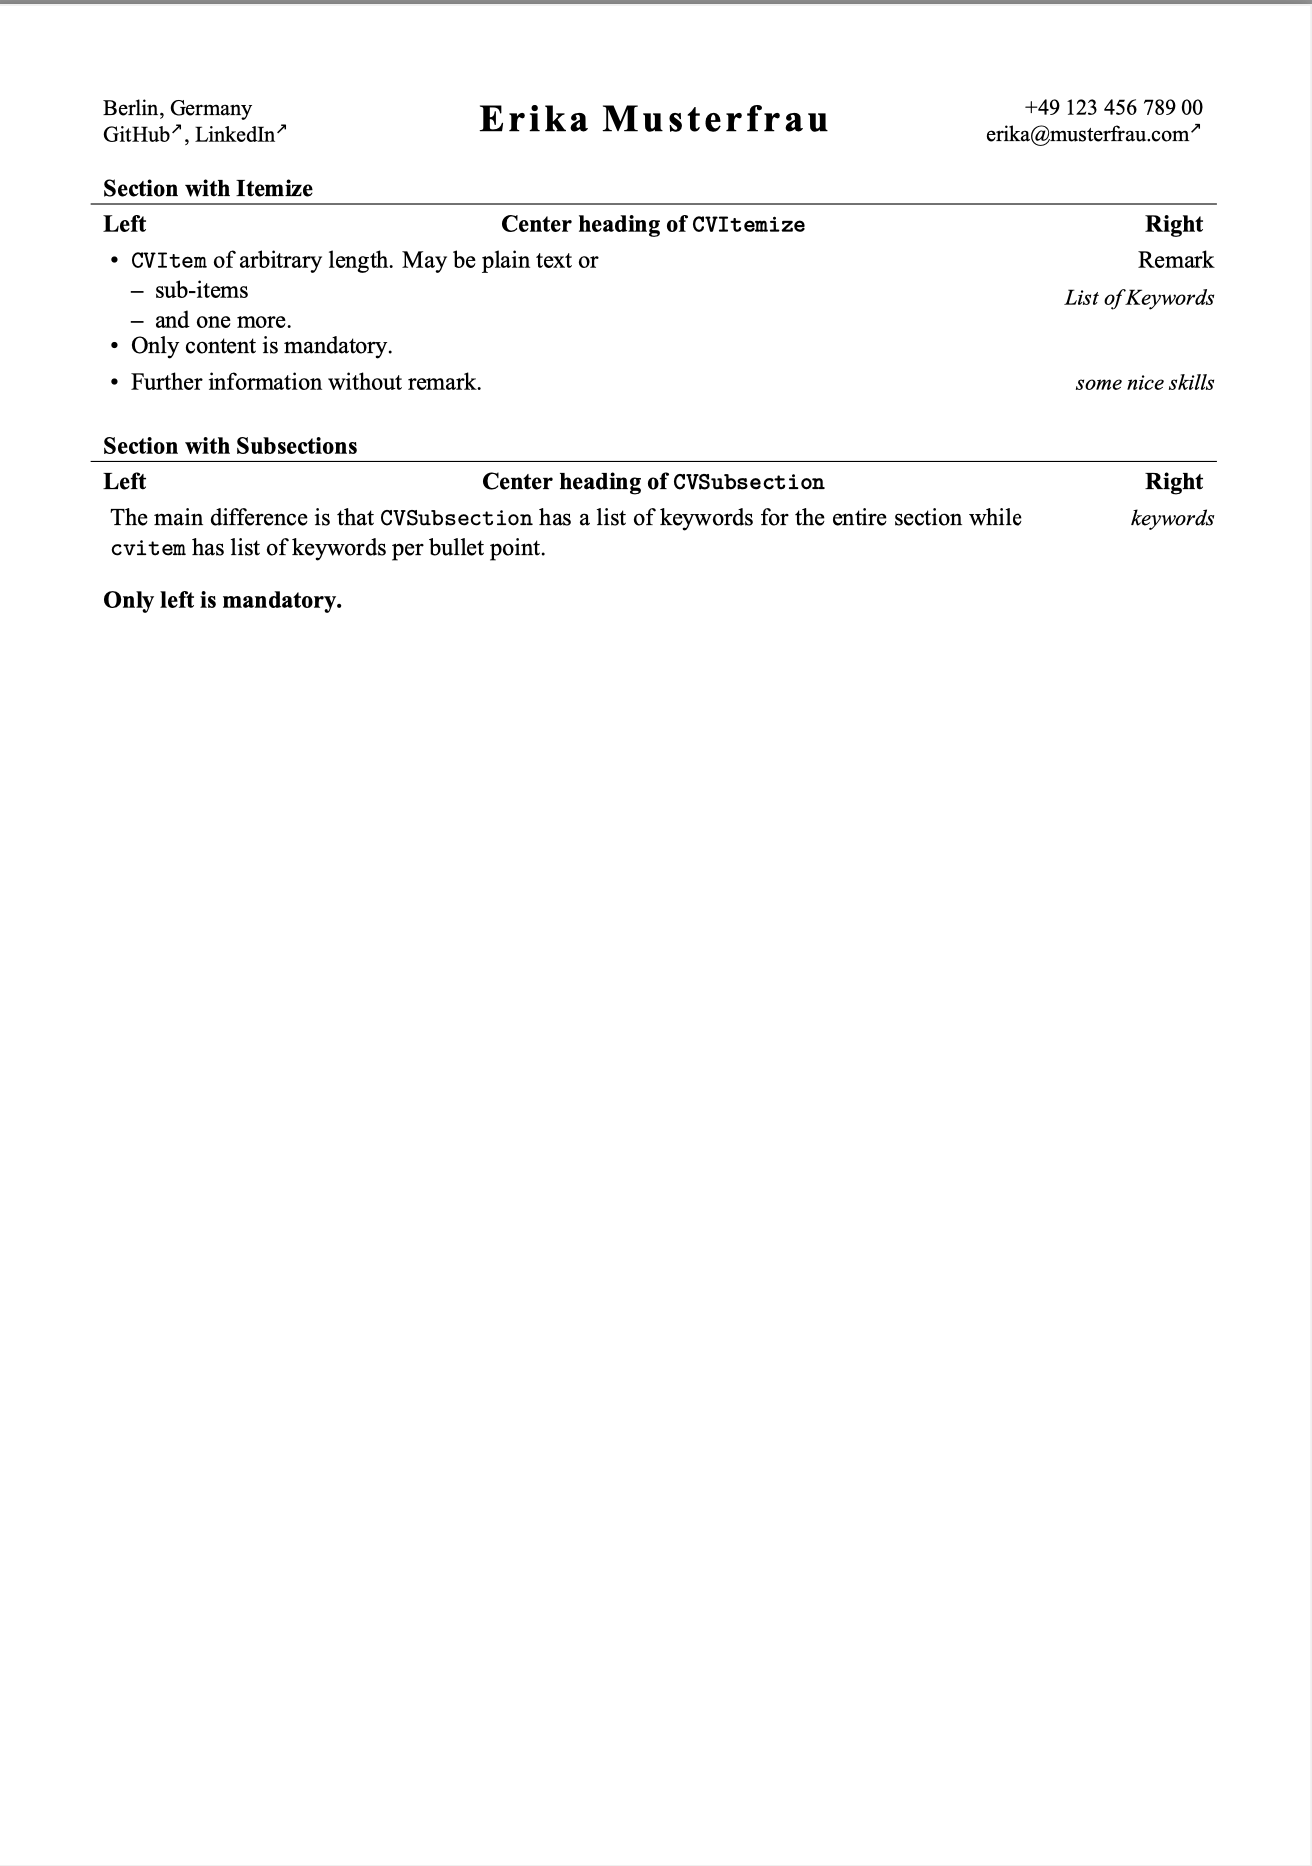
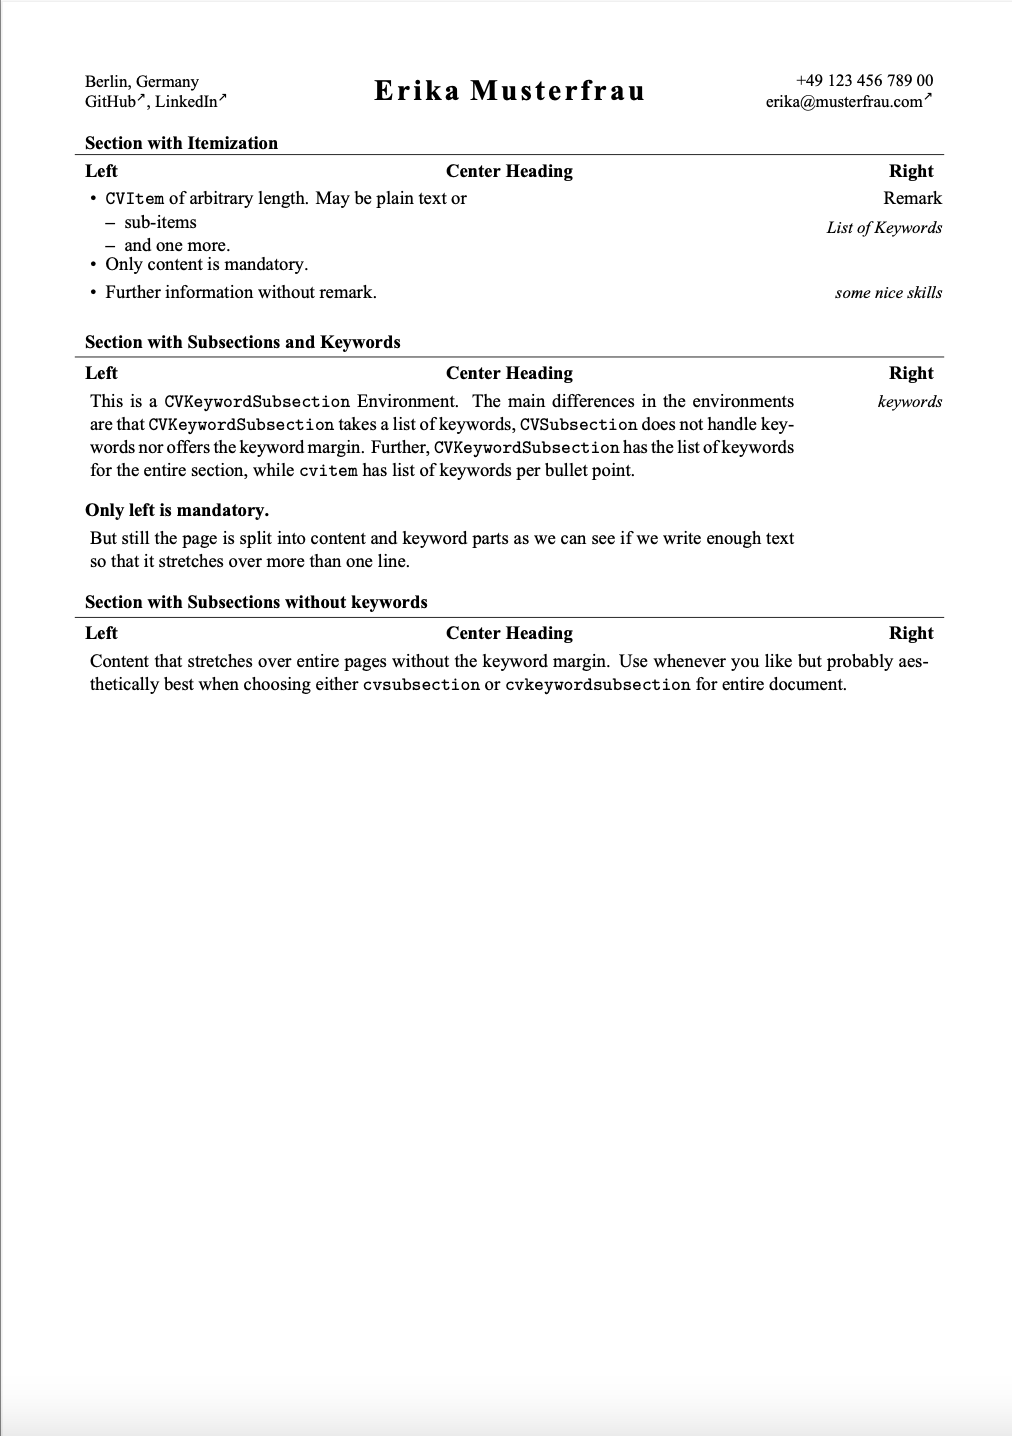
make compatible with original Template class: Add cvkeywordsubsection

diff --git a/Examples/CV_Template_Keywords.tex b/Examples/CV_Template_Keywords.tex
@@ -1,0 +1,100 @@
+%% The MIT License (MIT)
+%%
+%% Copyright (c) 2015 Daniil Belyakov
+%%
+%% Permission is hereby granted, free of charge, to any person obtaining a copy
+%% of this software and associated documentation files (the "Software"), to deal
+%% in the Software without restriction, including without limitation the rights
+%% to use, copy, modify, merge, publish, distribute, sublicense, and/or sell
+%% copies of the Software, and to permit persons to whom the Software is
+%% furnished to do so, subject to the following conditions:
+%%
+%% The above copyright notice and this permission notice shall be included in all
+%% copies or substantial portions of the Software.
+%%
+%% THE SOFTWARE IS PROVIDED "AS IS", WITHOUT WARRANTY OF ANY KIND, EXPRESS OR
+%% IMPLIED, INCLUDING BUT NOT LIMITED TO THE WARRANTIES OF MERCHANTABILITY,
+%% FITNESS FOR A PARTICULAR PURPOSE AND NONINFRINGEMENT. IN NO EVENT SHALL THE
+%% AUTHORS OR COPYRIGHT HOLDERS BE LIABLE FOR ANY CLAIM, DAMAGES OR OTHER
+%% LIABILITY, WHETHER IN AN ACTION OF CONTRACT, TORT OR OTHERWISE, ARISING FROM,
+%% OUT OF OR IN CONNECTION WITH THE SOFTWARE OR THE USE OR OTHER DEALINGS IN THE
+%% SOFTWARE.
+
+% The font could be set to Windows-specific Calibri by using the 'calibri' option
+\documentclass[]{mcdowellcv}
+
+% For mathematical symbols
+\usepackage{amsmath}
+
+% Set applicant's personal data for header
+\name{Gayle L. McDowell}
+\address{123 Spruce St, Apt 35 \linebreak Philadelphia PA 19103}
+\contacts{(555) 555-1212 \linebreak gayle@careercup.com}
+
+\begin{document}
+
+	% Print the header
+	\makeheader
+	
+	% Print the content
+	\begin{cvsection}{Employment}
+		\begin{cvkeywordsubsection}{Software Engineer, Intern}{Apple Computer}{06/2004--09/2004}{ Search Algorithms \\ DevOps \\ SQL \\ Microsoft SQL Server \\ iChat}
+			\begin{itemize}
+				\item Reduced time to render the user’s buddy list by 75\% by implementing prediction algorithm.
+				\item Implemented iChat integration with OS X Spotlight Search by creating tool which extracts metadata from saved chat transcripts and provides metadata to a system-wide search database.
+				\item Redesigned chat file format and implemented backwards compatibility for search.
+			\end{itemize}
+		\end{cvkeywordsubsection}
+		
+		\begin{cvkeywordsubsection}{Head Teaching Assistant}{University of Pennsylvania}{10/2001 -- 04/2005}{Teaching \\ Leadership}
+			\begin{itemize}
+				\item Courses: Advanced Java III, Mathematical Foundations of Computer Science I \& II.
+				\item Promoted to Head TA in Fall 2004; led weekly meetings and supervised four other TAs.
+			\end{itemize}
+		\end{cvkeywordsubsection}
+		
+		\begin{cvkeywordsubsection}{Software Design Engineer, Intern}{Microsoft Corporation}{Summers 2001 -- 2003}{DevOps \\ C++, flutter \\ Visual Studio \\ Interface Builder}
+			Visual Studio Core (Summer 2003)		
+			\begin{itemize}
+				\item Implemented user interface for the VS open file switcher (ctrl-tab), extended it to tool windows.
+				\item Created service to provide gradient across VS and VS add-ins. Optimized service via caching.
+			\end{itemize}
+			Programmer Productivity Research Center (Summers 2001, 2002)
+			\begin{itemize}
+				\item Built app to compute similarity of all methods in a code base; reduced time from $O(n^2)$ to $O(n\ log\ n)$.
+			\end{itemize}
+		\end{cvkeywordsubsection}
+	\end{cvsection}
+	
+	\begin{cvsection}{Education}
+		\begin{cvitemize}{Philadelphia, PA}{University of Pennsylvania}{10/2000 -- 05/2005}
+            \cvitem{M.S.E. in Computer and Information Science, May 2005.
+                \begin{itemize}
+                    \item Graduate Coursework: Software Foundations; Computer Architecture; Algorithms; Artificial Intelligence; Comparison of Learning Algorithms; Computational Theory.
+                \end{itemize}
+                }[\textbf{GPA: 3.6}][C++, Python\\ ML Algorithms]
+            \cvitem
+                {B.S.E. in Computer Science Engineering with Minor in Mathematics, May 2005.
+                \begin{itemize}
+                    \item Undergraduate Coursework: Operating Systems; Databases; Algorithms; Programming Languages; Comp. Architecture; Engineering Entrepreneurship; Calculus III.
+			\end{itemize}
+            }[In-major \textbf{GPA: 3.4.}][Data Science \\ Analytical Thinking]
+		\end{cvitemize}
+	\end{cvsection}
+	
+	\begin{cvsection}{Technical Experience}
+		\begin{cvitemize}{Projects}{}{}
+				\cvitem{\textbf{Multi-User Drawing Tool} (2004). Electronic classroom where multiple users can view and simultaneously draw on a “chalkboard” with each person’s edits synchronized}[][C++\\ MFC]
+				\cvitem{\textbf{Synchronized Calendar} (2003 – 2004). Desktop calendar with globally shared and synchronized calendars, allowing users to schedule meetings with other users.}[][C\#.NET \\ SQL, XML]
+				\cvitem{\textbf{Operating System} (2002).  UNIX-style OS with scheduler, file system, text editor and calculator.}[][C]
+		\end{cvitemize}
+	\end{cvsection}
+	
+	\begin{cvsection}{Additional Experience and Awards}
+		\begin{cvitemize}{}{}{}	
+				\cvitem{\textbf{Instructor (2003 – 2005):} Taught two full-credit Computer Science courses; average ratings of 4.8 out of 5.0.}[][Teaching]
+				\cvitem{\textbf{Third Prize, Senior Design Projects:} Awarded 3rd prize for Synchronized Calendar project, out of 100 projects.}[][Design]
+		\end{cvitemize}
+	\end{cvsection}
+\end{document}
+

diff --git a/Examples/minimal_example.tex b/Examples/minimal_example.tex
@@ -1,4 +1,4 @@
-    %% The MIT License (MIT)
+%% The MIT License (MIT)
 %%
 %% Copyright (c) 2015 Daniil Belyakov
 %%
@@ -36,10 +36,10 @@
 	
     \makeheader
     
-    \begin{cvsection}{Section with Itemize}
+    \begin{cvsection}{Section with Itemization}
         \begin{cvitemize}
             {Left}
-            {Center heading of \texttt{CVItemize}}
+            {Center Heading}
             {Right}
                 \cvitem{\texttt{CVItem} of arbitrary length. May be plain text or    
                       \begin{itemize}
@@ -54,22 +54,33 @@
         \end{cvitemize}
     \end{cvsection}
 
-    \begin{cvsection}{Section with Subsections}
-        \begin{cvsubsection}
+    \begin{cvsection}{Section with Subsections and Keywords}
+        \begin{cvkeywordsubsection}
             {Left}
-            {Center heading of \texttt{CVSubsection}}
+            {Center Heading}
             {Right}
             {keywords}
-                The main difference is that \texttt{CVSubsection} has a list of keywords for the entire section while \texttt{cvitem} has list of keywords per bullet point.
-        \end{cvsubsection}
+                 This is a \texttt{CVKeywordSubsection} Environment. 
+                 The main differences in the environments are that \texttt{CVKeywordSubsection} takes a list of keywords, \texttt{CVSubsection} does not handle keywords nor offers the keyword margin.
+                 Further, \texttt{CVKeywordSubsection} has the list of keywords for the entire section, while \texttt{cvitem} has list of keywords per bullet point.
+        \end{cvkeywordsubsection}
         %
-        \begin{cvsubsection}
+        \begin{cvkeywordsubsection}
             {Only left is mandatory.}
             {}
             {}
             {}
-        \end{cvsubsection}
+            But still the page is split into content and keyword parts as we can see if we write enough text so that it stretches over more than one line. 
+        \end{cvkeywordsubsection}
         %
+    \end{cvsection}
+
+    \begin{cvsection}{Section with Subsections without Keywords}
+        \begin{cvsubsection}{Left}{Center Heading}{Right}
+            Content that stretches over entire pages without the keyword margin. Use whenever you like but probably aesthetically best when choosing either \texttt{cvsubsection} or \texttt{cvkeywordsubsection} for entire document.
+            
+        \end{cvsubsection}
+                   
     \end{cvsection}
 
 \end{document}

diff --git a/Examples/CV_Template_noKeywords.tex b/Examples/CV_Template_noKeywords.tex
@@ -69,8 +69,7 @@
 			\end{itemize}
 			Programmer Productivity Research Center (Summers 2001, 2002)
 			\begin{itemize}
-				\item Built app to compute similarity of all methods in a code base; reduced time from $O(n^2)$ to $O(n\ log\ n)$. 
-				\item Created test case generation tool which creates random XML docs from XML Schema.
+				\item Built app to compute similarity of all methods in a code base; reduced time from $O(n^2)$ to $O(n\ log\ n)$.
 			\end{itemize}
 		\end{cvsubsection}
 	\end{cvsection}

diff --git a/README.md b/README.md
@@ -1,18 +1,19 @@
 # McDowell CV
-McDowell CV is a LuaLaTeX class for building neat and space-efficient CVs using the design originally proposed by Gayle L. McDowell at 
-http://www.careercup.com/resume.
+McDowell CV is a LuaLaTeX class for building neat and space-efficient CVs using the design originally proposed by Gayle L. McDowell at http://www.careercup.com/resume.
 
 The class is based on `article` class.
 
-## This fork
-- Add Skills or keywords to each CV entry. The right fifth of the page is reserved for these (optional) keywords.
-- `CVItemize`environment together with `CVItem` command allow smoother itemization with keywords per item.
+## Novelties in this fork
+- Add skills or keywords to each CV entry. The right 17% of the page can be reserved for these (optional) keywords.
+- `CVItemize` environment together with `CVItem` command allow smoother itemization with keywords per item.
 - Make URLs clickable and indicate them with small arrow.
+- Still compatible with original McDowell CV class, i.e. the usage without keywords.
 
 ## Examples
 - A minimal usage example is provided [here](./Examples/minimal_example.tex).
 <img src="https://github.com/dnl-blkv/mcdowell-cv/blob/master/McDowell_CV.png" width="240px"/>
-- An example CV is provided [here](./Examples/).
+- An example CV with keywords is provided [here](./Examples/CV_Template_Keywords.tex).
+- An example CV without keywords is provided [here](./Examples/CV_Template_noKeywords.tex).
 
 ## Use Cases
 - A great tool making it easy to build CVs: https://latexresu.me/.
@@ -31,9 +32,10 @@ The class features the following commands:
  
 ## Environments
 - `\begin{cvsection}{sectionname}` - prints a section with a header consisting of the name in bold small caps and a page-wide horizontal line below.
-- `\begin{cvsubsection}[linesnum]{left}{center}{right}{content}{keywords}` - prints a subsection with header in bold consisting of the `left`, `center` and `right` titles across page-width. Prints `keywords` in small, italic to right 17% of the page. The content of the section is printed to the left 81% of the page. 
-`left` is mandatory, `center`, `right` and `keywords` are optional.
-The optional `linesnum` argument defines the amount of lines in the header. The argument only affects the vertical spacing between the environment header and content thus eliminating the effect of *tabu* package vertical spacing bug.
+- `\begin{cvsubsection}[linesnum]{left}{center}{right}{content}` - prints a subsection with header in bold consisting of the `left`, `center` and `right` titles across page-width. Does not provide margin for keywords. 
+`left` is mandatory, `center` and `right` are optional. The optional `linesnum` argument defines the amount of lines in the header. The argument only affects the vertical spacing between the environment header and content thus eliminating the effect of *tabu* package vertical spacing bug.
+- `\begin{cvkeywordsubsection}[linesnum]{left}{center}{right}{content}{keywords}` - prints a subsection with header in bold consisting of the `left`, `center` and `right` titles across page-width. Prints `keywords` in small, italic to right 17% of the page. The content of the section is printed to the left 81% of the page.
+`left` is mandatory, `center`, `right` and `keywords` are optional. `linesum` see above.
 - `\begin{cvitemize}{left}{center}{right}` - prints section with header in bold consisting of the `left`, `center` and `right` titles. In contrast to `cvsubsection` it does not trigger keyword split of section. 
 - `\cvitem{bullet point content}[right][keywords]` - prints `bullet point content` in left 81% and `right` to right 17% of page. `right` is printed in normal text size and font, `keywords` are printed in small and italic.
 
